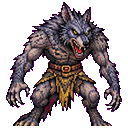
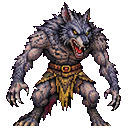
立体試作版：階ごとの空気（霧・炎の色）、玉座、立体での戦闘（攻撃・反撃・火花・会心・撃破演出）、怪物の縁のにじみを除去
Claude-Session: https://claude.ai/code/session_01KaWmok8TJM3XTd2GM42zCU

diff --git a/3d.html b/3d.html
@@ -21,6 +21,15 @@
   #help { position: fixed; left: 14px; bottom: 22px; font-size: 13px; color: #a89f86; line-height: 1.6; }
   #back { position: fixed; top: 92px; left: 14px; font-size: 14px; color: #d9b65f; padding: 6px 12px; text-decoration: none; }
   #fade { position: fixed; inset: 0; background: #000; pointer-events: none; opacity: 1; transition: opacity .9s; }
+  #party { position: fixed; top: 132px; left: 14px; padding: 8px 14px; width: 244px; font-size: 14px; }
+  .bar { height: 9px; background: #1a0d08; border: 1px solid rgba(217,182,95,.4); margin-top: 4px; }
+  .bar > i { display: block; height: 100%; background: linear-gradient(90deg, #8a1a10, #e0503a); transition: width .25s; }
+  #pbar > i { background: linear-gradient(90deg, #1f6b3a, #58ff9a); }
+  #battle { position: fixed; top: 16%; left: 50%; transform: translateX(-50%); padding: 10px 22px; text-align: center; display: none; min-width: 300px; }
+  #battle .name { font-size: 24px; color: #ffb0a0; letter-spacing: .1em; }
+  #battle .hint { font-size: 13px; color: #c9bfa4; margin-top: 6px; }
+  #dmg { position: fixed; left: 50%; top: 42%; transform: translate(-50%, 0); font-size: 46px; font-weight: bold; color: #fff2c0;
+    text-shadow: 0 0 12px #ff8a30, 0 2px 0 #000; pointer-events: none; opacity: 0; }
   #touch { position: fixed; right: 14px; bottom: 120px; display: none; gap: 6px; grid-template-columns: repeat(3, 56px); }
   #touch button { height: 56px; font-size: 22px; color: #f4ecd0; background: rgba(0,0,0,.6); border: 1px solid rgba(244,236,208,.5); border-radius: 8px; }
   @media (max-width: 820px), (pointer: coarse) {
@@ -43,10 +52,14 @@
 <a id="back" class="panel" href="./">← 通常版へ戻る</a>
 <div id="mapPanel" class="panel"><canvas id="map" width="190" height="190"></canvas></div>
 <div id="msg" class="panel"></div>
+<div id="party" class="panel">隊列の体力 <span id="php"></span><div class="bar" id="pbar"><i></i></div></div>
+<div id="battle" class="panel"><div class="name" id="bname"></div><div class="bar" id="bbar"><i></i></div><div class="hint">Z・Enter：攻撃　Esc：退く</div></div>
+<div id="dmg"></div>
 <div id="help">W：前進　A：左を向く　D：右を向く　X：振り返る　矢印キーも可</div>
 <div id="touch">
   <span></span><button data-c="forward">▲</button><span></span>
   <button data-c="left">◀</button><button data-c="turn">↻</button><button data-c="right">▶</button>
+  <button data-c="attack" style="grid-column: span 2">攻撃</button><button data-c="flee">退く</button>
 </div>
 <div id="fade"></div>
 
@@ -73,6 +86,14 @@ const MONSTER_NAMES = { "001_rat": "大ネズミ", "002_wolf": "黒檻の猟犬"
   "008_hyena": "影の猟犬", "009_rat_elite": "疫病鼠", "010_wolf_elite": "狼の霊魂", "014_gorilla_elite": "泥トロル", "003_boar": "泥の猪" };
 
 const CELL = 2, WALL_H = 2.6, EYE = 1.15;
+// 階ごとの空気：霧の色、燭台の炎の色、壁の色味
+const THEMES = [
+  { fog: 0x050302, flame: 0xffb060, light: 0xff8a30, wall: 0xffffff },
+  { fog: 0x02050a, flame: 0x80c8ff, light: 0x4a9cff, wall: 0xc8d4e8 },
+  { fog: 0x050309, flame: 0xc890ff, light: 0x9a5cff, wall: 0xc4bccc },
+  { fog: 0x070500, flame: 0xffd27a, light: 0xffb340, wall: 0xf0dcb0 },
+  { fog: 0x090101, flame: 0xff6a50, light: 0xff3020, wall: 0xe0b8b0 }
+];
 
 // ===== 描画の土台 =====
 const view = document.getElementById("view");
@@ -217,8 +238,25 @@ const flameTex = glowTexture("rgba(255,250,220,1)", "rgba(255,140,40,.8)");
 const runeTex = glowTexture("rgba(200,240,255,1)", "rgba(80,160,255,.6)");
 const dustTex = glowTexture("rgba(255,230,190,.9)", "rgba(255,200,140,.25)");
 
+// ===== 火花（攻撃が当たった所から飛び散る） =====
+const SP = 260, spGeo = new THREE.BufferGeometry();
+const spPos = new Float32Array(SP * 3), spVel = new Float32Array(SP * 3), spLife = new Float32Array(SP);
+spGeo.setAttribute("position", new THREE.BufferAttribute(spPos, 3));
+const sparks = new THREE.Points(spGeo, new THREE.PointsMaterial({ map: flameTex, color: 0xffd090, size: 0.09, transparent: true, depthWrite: false, blending: THREE.AdditiveBlending }));
+sparks.frustumCulled = false;
+let spNext = 0;
+function burst(at, n, spread) {
+  for (let i = 0; i < n; i++) {
+    const k = spNext = (spNext + 1) % SP;
+    spPos.set([at.x, at.y, at.z], k * 3);
+    spVel.set([(Math.random() - 0.5) * spread, Math.random() * spread * 0.9, (Math.random() - 0.5) * spread], k * 3);
+    spLife[k] = 0.5 + Math.random() * 0.5;
+  }
+}
+
 // ===== 状態 =====
-const st = { floor: 0, x: 1, y: 1, dir: 0, seen: {}, busy: false, dead: false };
+const st = { floor: 0, x: 1, y: 1, dir: 0, seen: {}, busy: false, dead: false, hp: 120, maxHp: 120 };
+let battle = null;
 let world = null;              // 現在の階の3D物体
 const torchLight = new THREE.PointLight(0xffc08a, 9, 20, 1.25);
 torchLight.castShadow = true;
@@ -241,6 +279,7 @@ for (let i = 0; i < DUST; i++) {
 dustGeo.setAttribute("position", new THREE.BufferAttribute(dustPos, 3));
 const dust = new THREE.Points(dustGeo, new THREE.PointsMaterial({ map: dustTex, size: 0.05, transparent: true, depthWrite: false, blending: THREE.AdditiveBlending, opacity: 0.55 }));
 scene.add(dust);
+scene.add(sparks);
 
 const tile = (x, y) => (FLOORS[st.floor].map[y] || "")[x] || "#";
 const isWall = (x, y) => tile(x, y) === "#";
@@ -250,6 +289,9 @@ const wpos = (x, y) => new THREE.Vector3(x * CELL, 0, y * CELL);
 function buildFloor(fi) {
   if (world) { scene.remove(world.group); world.group.traverse(o => { if (o.geometry) o.geometry.dispose(); }); }
   const F = FLOORS[fi], H = F.map.length, W = F.map[0].length;
+  const TH = THEMES[fi] || THEMES[0];
+  scene.fog.color.setHex(TH.fog); scene.background.setHex(TH.fog);
+  wallMat.color.setHex(TH.wall);
   const group = new THREE.Group();
   const flames = [], monsters = [], runes = [];
 
@@ -301,9 +343,9 @@ function buildFloor(fi) {
     const px = c.x * CELL + c.d.dx * (CELL / 2 - 0.08), pz = c.y * CELL + c.d.dy * (CELL / 2 - 0.08);
     const holder = new THREE.Mesh(new THREE.CylinderGeometry(0.05, 0.03, 0.35, 8), sconceMat);
     holder.position.set(px, 1.55, pz); holder.castShadow = true; group.add(holder);
-    const fl = new THREE.Sprite(new THREE.SpriteMaterial({ map: flameTex, color: 0xffb060, blending: THREE.AdditiveBlending, depthWrite: false }));
+    const fl = new THREE.Sprite(new THREE.SpriteMaterial({ map: flameTex, color: TH.flame, blending: THREE.AdditiveBlending, depthWrite: false }));
     fl.position.set(px, 1.82, pz); fl.scale.set(0.42, 0.6, 1); group.add(fl);
-    const pl = new THREE.PointLight(0xff8a30, 9, 7, 1.8);
+    const pl = new THREE.PointLight(TH.light, 9, 7, 1.8);
     pl.position.set(px - c.d.dx * 0.25, 1.8, pz - c.d.dy * 0.25); group.add(pl);
     flames.push({ fl, pl, seed: Math.random() * 100 });
   }
@@ -328,7 +370,29 @@ function buildFloor(fi) {
       for (const m of [body, lid, band]) { m.castShadow = true; m.receiveShadow = true; chest.add(m); }
       chest.position.set(p.x, 0, p.z); group.add(chest);
     }
-    if (ch === "E" || ch === "K" || ch === "B") {
+    if (ch === "B") {
+      const throne = new THREE.Group();
+      const stone = new THREE.MeshStandardMaterial({ color: 0x2a2224, roughness: 0.55, metalness: 0.2 });
+      const gold = new THREE.MeshStandardMaterial({ color: 0xc8a040, roughness: 0.25, metalness: 1, emissive: 0x2a1800 });
+      const cloth = new THREE.MeshStandardMaterial({ color: 0x7a0c10, roughness: 0.9 });
+      const parts = [
+        [new THREE.BoxGeometry(1.3, 0.45, 1.0), stone, 0, 0.22, 0],
+        [new THREE.BoxGeometry(1.3, 2.2, 0.22), stone, 0, 1.1, -0.45],
+        [new THREE.BoxGeometry(0.18, 0.75, 0.9), stone, -0.6, 0.62, 0],
+        [new THREE.BoxGeometry(0.18, 0.75, 0.9), stone, 0.6, 0.62, 0],
+        [new THREE.BoxGeometry(1.0, 0.06, 0.75), cloth, 0, 0.48, 0.05],
+        [new THREE.BoxGeometry(0.9, 1.5, 0.04), cloth, 0, 1.15, -0.33],
+        [new THREE.BoxGeometry(1.42, 0.08, 0.3), gold, 0, 2.2, -0.45],
+        [new THREE.ConeGeometry(0.12, 0.35, 8), gold, -0.5, 2.42, -0.45],
+        [new THREE.ConeGeometry(0.16, 0.5, 8), gold, 0, 2.5, -0.45],
+        [new THREE.ConeGeometry(0.12, 0.35, 8), gold, 0.5, 2.42, -0.45]
+      ];
+      for (const [geo, mat, x, y, z] of parts) { const m = new THREE.Mesh(geo, mat); m.position.set(x, y, z); m.castShadow = true; m.receiveShadow = true; throne.add(m); }
+      throne.position.set(p.x, 0, p.z); throne.rotation.y = 0; group.add(throne);
+      const red = new THREE.PointLight(0xff2010, 14, 9, 1.6); red.position.set(p.x, 2.2, p.z + 0.8); group.add(red);
+      flames.push({ fl: new THREE.Object3D(), pl: red, seed: 3 });
+    }
+    if (ch === "E" || ch === "K") {
       const col = ch === "E" ? 0x9fe0ff : ch === "K" ? 0xffd27a : 0xff6060;
       const s = new THREE.Sprite(new THREE.SpriteMaterial({ map: runeTex, color: col, blending: THREE.AdditiveBlending, depthWrite: false }));
       s.position.set(p.x, 1.0, p.z); s.scale.set(0.7, 0.7, 1); group.add(s); runes.push(s);
@@ -344,12 +408,13 @@ function buildFloor(fi) {
   for (const [x, y] of floorsCells.filter(([x, y]) => Math.abs(x - start[0]) + Math.abs(y - start[1]) > 5).slice(0, 6)) {
     const file = MONSTER_FILES[Math.floor(Math.random() * MONSTER_FILES.length)];
     const tex = loader.load(`img/monsters/${file}.png`); tex.colorSpace = THREE.SRGBColorSpace;
-    const mat = new THREE.MeshStandardMaterial({ map: tex, transparent: true, alphaTest: 0.35, roughness: 0.8, side: THREE.DoubleSide });
+    const mat = new THREE.MeshStandardMaterial({ map: tex, emissiveMap: tex, emissive: 0x000000, transparent: true, alphaTest: 0.35, roughness: 0.8, side: THREE.DoubleSide });
     const mesh = new THREE.Mesh(new THREE.PlaneGeometry(1.7, 1.7), mat);
     mesh.position.set(x * CELL, 0.85, y * CELL); mesh.castShadow = true;
     mesh.customDepthMaterial = new THREE.MeshDepthMaterial({ depthPacking: THREE.RGBADepthPacking, map: tex, alphaTest: 0.35 });
     group.add(mesh);
-    monsters.push({ mesh, x, y, name: MONSTER_NAMES[file], seed: Math.random() * 100 });
+    const hp = 18 + fi * 14 + Math.floor(Math.random() * 10);
+    monsters.push({ mesh, x, y, name: MONSTER_NAMES[file], seed: Math.random() * 100, hp, max: hp, flash: 0, dying: 0, lunge: 0 });
   }
 
   scene.add(group);
@@ -406,6 +471,8 @@ function finishAnim() {
 }
 function act(c) {
   if (st.busy) return;
+  if (battle) { if (c === "attack" || c === "forward") attack(); else if (c === "flee") flee(); return; }
+  if (c === "attack" || c === "flee") return;
   // 描画が重い環境でも操作が詰まらないよう、時間が過ぎていれば前の動きを完了させる
   if (anim.t < 1) {
     if ((performance.now() - anim.start) / 1000 < anim.dur) return;
@@ -424,11 +491,8 @@ function act(c) {
   if (c === "forward") {
     const d = DIRS[st.dir], nx = st.x + d.dx, ny = st.y + d.dy;
     if (isWall(nx, ny)) { say("冷たい石壁だ。"); bump(); return; }
-    const mon = world.monsters.find(m => m.x === nx && m.y === ny && m.mesh.visible);
-    if (mon) {
-      say(`${mon.name}が立ちはだかる！　（戦いは通常版で。試作版では怪物は退いていく）`);
-      mon.mesh.visible = false; hurt(); return;
-    }
+    const mon = world.monsters.find(m => m.x === nx && m.y === ny && m.mesh.visible && !m.dying);
+    if (mon) { startBattle(mon); return; }
     st.x = nx; st.y = ny;
     startAnim(0.26); anim.to.set(nx * CELL, EYE, ny * CELL); anim.yaw1 = anim.yaw0;
     reveal();
@@ -442,10 +506,77 @@ function act(c) {
   }
 }
 let hurtT = 0; function hurt() { hurtT = 1; }
+let shakeT = 0;
+function updateParty() {
+  document.getElementById("php").textContent = `${st.hp} / ${st.maxHp}`;
+  document.querySelector("#pbar > i").style.width = `${Math.max(0, st.hp / st.maxHp * 100)}%`;
+}
+function updateBattle() {
+  const el = document.getElementById("battle");
+  if (!battle) { el.style.display = "none"; return; }
+  el.style.display = "block";
+  document.getElementById("bname").textContent = battle.mon.name;
+  document.querySelector("#bbar > i").style.width = `${Math.max(0, battle.mon.hp / battle.mon.max * 100)}%`;
+}
+function popDamage(n, color) {
+  const el = document.getElementById("dmg");
+  el.textContent = n; el.style.color = color || "#fff2c0";
+  el.animate([{ opacity: 0, transform: "translate(-50%, 20px) scale(.6)" }, { opacity: 1, transform: "translate(-50%, 0) scale(1.15)", offset: 0.25 }, { opacity: 0, transform: "translate(-50%, -40px) scale(1)" }], { duration: 900, easing: "ease-out" });
+}
+function startBattle(mon) {
+  battle = { mon, lock: false };
+  // 怪物が一歩前に出てくる
+  mon.lunge = 1;
+  say(`${mon.name}が立ちはだかる！`, true);
+  updateBattle();
+}
+function attack() {
+  if (!battle || battle.lock) return;
+  battle.lock = true;
+  const m = battle.mon;
+  const crit = Math.random() < 0.15;
+  const dmg = Math.floor((10 + Math.random() * 9) * (crit ? 2 : 1));
+  m.hp -= dmg; m.flash = 1; shakeT = crit ? 1 : 0.6;
+  const at = m.mesh.position.clone(); at.y = 1.0;
+  burst(at, crit ? 120 : 70, crit ? 5 : 3.2);
+  popDamage(crit ? `会心 ${dmg}` : dmg, crit ? "#ffe066" : "#fff2c0");
+  say(crit ? `会心の一撃！ ${m.name}に${dmg}の傷を負わせた。` : `${m.name}に${dmg}の傷を負わせた。`, true);
+  updateBattle();
+  if (m.hp <= 0) {
+    m.dying = 1; burst(at, 160, 2.2);
+    setTimeout(() => { say(`${m.name}を倒した。闇の奥で、何かが崩れる音がした。`); battle = null; updateBattle(); }, 500);
+    return;
+  }
+  setTimeout(() => enemyTurn(m), 650);
+}
+function enemyTurn(m) {
+    if (!battle) return;
+    m.lunge = 1;
+    const hit = Math.random() < 0.75;
+    if (hit) {
+      const d = Math.floor(4 + Math.random() * (6 + st.floor * 3));
+      st.hp = Math.max(0, st.hp - d); hurt(); shakeT = 0.8; popDamage(`−${d}`, "#ff7060");
+      say(`${m.name}の反撃！ 隊列は${d}の傷を負った。`, true);
+    } else say(`${m.name}の反撃は空を切った。`, true);
+    updateParty();
+    if (st.hp <= 0) {
+      say("隊列は倒れた……。意識が遠のき、気がつくと階の入口に戻っていた。", true);
+      battle = null; updateBattle();
+      setTimeout(() => { st.hp = st.maxHp; updateParty(); enterFloor(st.floor); }, 1600);
+      return;
+    }
+    battle.lock = false;
+}
+function flee() {
+  if (!battle || battle.lock) return;
+  if (Math.random() < 0.7) { say("隊列は身を引いた。怪物は追ってこない。"); battle = null; updateBattle(); }
+  else { battle.lock = true; say("退こうとしたが、回り込まれた！", true); setTimeout(() => enemyTurn(battle.mon), 500); }
+}
 let bumpT = 0; function bump() { bumpT = 1; }
 
 addEventListener("keydown", e => {
-  const map = { KeyW: "forward", ArrowUp: "forward", KeyA: "left", ArrowLeft: "left", KeyD: "right", ArrowRight: "right", KeyX: "turn", ArrowDown: "turn" };
+  const map = { KeyW: "forward", ArrowUp: "forward", KeyA: "left", ArrowLeft: "left", KeyD: "right", ArrowRight: "right", KeyX: "turn", ArrowDown: "turn",
+    KeyZ: "attack", Enter: "attack", Space: "attack", Numpad1: "attack", Escape: "flee", Numpad2: "flee" };
   const c = map[e.code]; if (c) { e.preventDefault(); act(c); }
 });
 document.querySelectorAll("#touch button").forEach(b => b.addEventListener("pointerdown", e => { e.preventDefault(); act(b.dataset.c); }));
@@ -492,6 +623,22 @@ function tick() {
     camera.position.y = EYE + (moving ? Math.sin(k * Math.PI) * 0.06 : 0);
     if (anim.t >= 1) camera.rotation.y = yawOf(st.dir);
   }
+  // 火花
+  for (let i = 0; i < SP; i++) {
+    if (spLife[i] <= 0) { spPos[i * 3 + 1] = -99; continue; }
+    spLife[i] -= dt;
+    spVel[i * 3 + 1] -= 9 * dt;
+    spPos[i * 3] += spVel[i * 3] * dt; spPos[i * 3 + 1] += spVel[i * 3 + 1] * dt; spPos[i * 3 + 2] += spVel[i * 3 + 2] * dt;
+    if (spPos[i * 3 + 1] < 0.02) { spPos[i * 3 + 1] = 0.02; spVel[i * 3 + 1] *= -0.35; }
+  }
+  spGeo.attributes.position.needsUpdate = true;
+  // 打撃の揺れ
+  if (shakeT > 0) {
+    camera.position.x = anim.to.x + (Math.random() - 0.5) * 0.06 * shakeT;
+    camera.position.y = EYE + (Math.random() - 0.5) * 0.05 * shakeT;
+    shakeT = Math.max(0, shakeT - dt * 3);
+    if (shakeT === 0) { camera.position.x = anim.to.x; camera.position.y = EYE; }
+  }
   // 壁にぶつかった時の小さな揺れ
   if (bumpT > 0) { camera.position.x += (Math.random() - 0.5) * 0.03 * bumpT; bumpT = Math.max(0, bumpT - dt * 4); }
   // 松明のゆらぎ
@@ -503,8 +650,22 @@ function tick() {
     }
     for (const r of world.runes) r.material.opacity = 0.6 + Math.sin(time * 2.2) * 0.3;
     for (const m of world.monsters) {
+      if (!m.mesh.visible) continue;
+      const home = new THREE.Vector3(m.x * CELL, 0, m.y * CELL);
+      const toCam = new THREE.Vector3(camera.position.x - home.x, 0, camera.position.z - home.z);
+      const dist = toCam.length(); toCam.normalize();
+      m.lunge = Math.max(0, m.lunge - dt * 3);
+      const off = Math.sin(m.lunge * Math.PI) * 0.3;
+      m.mesh.position.set(home.x + toCam.x * Math.min(off, Math.max(0, dist - 1.4)), 0.85 + Math.sin(time * 1.6 + m.seed) * 0.03, home.z + toCam.z * Math.min(off, Math.max(0, dist - 1.4)));
       m.mesh.lookAt(camera.position.x, m.mesh.position.y, camera.position.z);
-      m.mesh.position.y = 0.85 + Math.sin(time * 1.6 + m.seed) * 0.03;
+      m.flash = Math.max(0, m.flash - dt * 4);
+      m.mesh.material.emissive.setScalar(m.flash * 1.6);
+      if (m.dying) {
+        m.dying = Math.max(0, m.dying - dt * 1.4);
+        m.mesh.material.opacity = m.dying; m.mesh.material.alphaTest = 0.35 + (1 - m.dying) * 0.6;
+        m.mesh.scale.set(1 + (1 - m.dying) * 0.25, 1 - (1 - m.dying) * 0.5, 1);
+        if (m.dying <= 0) m.mesh.visible = false;
+      }
     }
   }
   // 塵をプレイヤーの周りに漂わせる
@@ -536,7 +697,7 @@ addEventListener("resize", () => {
 
 // 開始
 st.x = FLOORS[0].start[0]; st.y = FLOORS[0].start[1]; st.dir = FLOORS[0].start[2];
-buildFloor(0); placeCamera(); reveal();
+buildFloor(0); placeCamera(); reveal(); updateParty();
 say("序章。奪われた玉座を取り戻すため、六人の隊列は奈落の城デスフォールへ降りていく。――立体試作版");
 setTimeout(() => { document.getElementById("fade").style.opacity = 0; }, 200);
 window.__ready = true;
